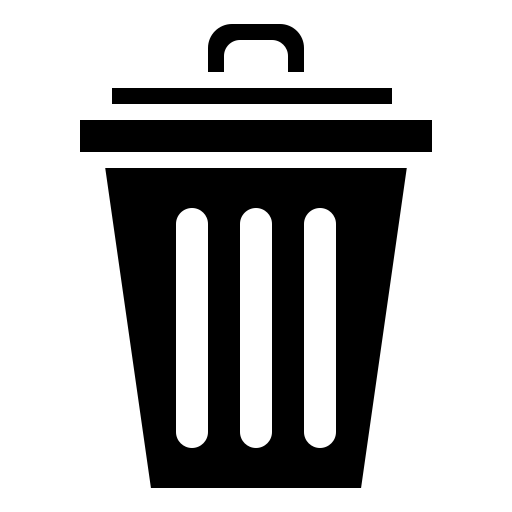
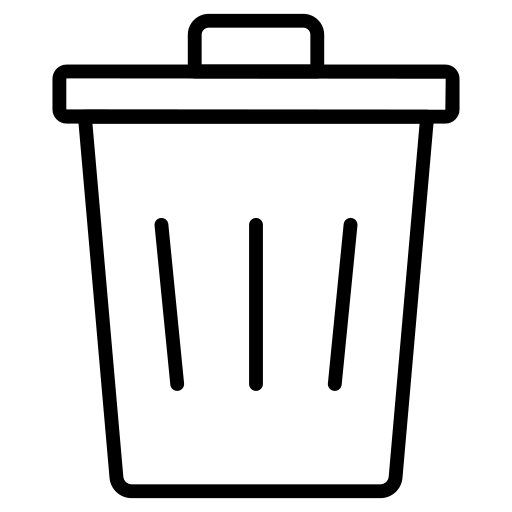
Change style in Cart

diff --git a/src/features/Cart/Cart.style.css b/src/features/Cart/Cart.style.css
@@ -1,20 +1,39 @@
 .cart-style {
     position: absolute;
-    top: 2rem;
-    right: 1.5rem;
-    max-width: 500px;
+    top: 3.5rem;
+    right: 2rem;
+    max-width: 400px;
     width: 100%;
     padding: 15px;
     border-radius: 8px;
-    background-color: #e1afd1;
+    background-color: #eacee1;
     border: 2px solid #C738BD;
     max-height: 500px;
     overflow-y: auto;
     display: flex;
     flex-direction: column;
-    gap: 10px;
-    color: whitesmoke;
+    color: #850f8dbb;
 
+}
+
+.cart-style hr {
+    display: flex;
+    flex-direction: row;
+    width: 100%;
+    background-color: #850f8d76;
+    border: none;
+    height: 2px;
+    padding: 1px;
+}
+
+.cart-style p {
+    padding: 0px;
+    margin: 0;
+}
+
+.cart-style h3 {
+    padding: 0px;
+    margin: 0px;
 }
 
 .item-list {
@@ -28,21 +47,23 @@
 .item-in-list {
     display: flex;
     flex-direction: row;
-    max-width: 500px;
+    max-width: 400px;
     width: 100%;
     justify-content: space-between;
     align-items: center;
-    background-color: #C738BD;
-    padding: 10px;
+    background-color: #d63ecc;
+    color: #e9dce5;
+    padding: 5px;
     border-radius: 5px;
     box-shadow: 2px 2px 4px 2px rgba(0, 0, 0, .2);
+    font-size: 14px;
 }
 
 .item-list-image {
-    max-width: 60px;
+    max-width: 50px;
     width: 100%;
     margin-left: 10px;
-    background-color: #e1afd1bb;
+    background-color: #e1afd195;
     border-radius: 5px;
 }
 
@@ -54,18 +75,75 @@
     justify-content: center;
     gap: 5px;
     font-size: 14px;
-    border: 2px solid whitesmoke;
-    border-radius: 30px;
     padding: 5px;
 }
 
 .bin-image {
-    max-width: 25px;
+    max-width: 20px;
     width: 100%;
+    filter: invert();
+    margin-right: 10px;
+}
+
+.promocode-style {
+    display: flex;
+    flex-direction: row;
+    align-items: center;
+    justify-content: center;
+    gap: 10px;
+    padding: 0px;
+    margin: 0px;
+}
+
+.promocode-style input {
+    border-radius: 30px;
+    border: none;
+    max-width: 300px;
+    width: 100%;
+    height: 30px;
+}
+
+.promocode-style input::placeholder {
+    padding-left: 10px;
 }
 
 .cart-style button {
-    max-width: 500px;
+    max-width: 400px;
     width: 100%;
     padding: 10px;
+    margin-bottom: 5px;
+}
+
+.subtotal-style,
+.discount-style,
+.total-style {
+    display: flex;
+    flex-direction: row;
+    justify-content: space-between;
+    align-items: center;
+    font-size: 16px;
+}
+
+.subtotal-style,
+.discount-style,
+.total-style h5,
+h4 {
+    padding: 0px;
+    margin: 0px;
+}
+
+.discount-style {
+    font-size: 14px;
+    color: #850f8d95;
+}
+
+.total-style {
+    padding-bottom: 20px;
+}
+
+.no-items {
+    display: flex;
+    align-items: center;
+    justify-content: center;
+    font-size: 20px;
 }

diff --git a/src/features/Cart/Cart.jsx b/src/features/Cart/Cart.jsx
@@ -18,7 +18,8 @@ const Cart = () => {
     return (
         <div className='cart-style'>
             {cart.length ? (<>
-                <p>Your items:</p>
+                <h3>Your items:</h3>
+                <hr />
                 <div className='item-list'>
                     {cart.map((item) => (
                         <div className='item-in-list' key={item.id}>
@@ -27,17 +28,37 @@ const Cart = () => {
                             <div className="quantity-style">
                                 <span onClick={() => decrementItem(item.id)}>-</span>
                                 <span>{item.quantity}</span>
-                                <span onClick={() => incrementItem(item.id)}>+</span>
+                                <span onClick={() => incrementItem(item)}>+</span>
                             </div>
                             <p>${handlePrice(item)}</p>
                             <img src={binIcon} className='bin-image' alt='bin-image' onClick={() => { deleteItem(item.id) }} />
                         </div>
                     ))}
                 </div>
-                <p className='total-price'>Total: ${total.toFixed(2)}</p>
+                <hr />
+                <div className='promocode-style'>
+                    <input type='text' placeholder='Promocode' />
+                    <Button buttonText='Apply' />
+                </div>
+                <hr />
+                <div className='subtotal-style'>
+                    <h4>Subtotal</h4>
+                    <p>${total.toFixed(2)}</p>
+                </div>
+                <div className='discount-style'>
+                    <h5>Discount</h5>
+                    <p>(20%) - $156.20 </p>
+                </div>
+                <hr />
+                <div className='total-style'>
+                    <h4>Total:</h4>
+                    <p>${total.toFixed(2)}</p>
+                </div>
                 <Button className='checkout-button' buttonText='Proceed to checkout' />
                 <Button className='clear-cart' handleClick={clearCart} buttonText='Clear cart' />
-            </>) : (<h2>No items in cart</h2>)}
+            </>) : (<>
+                <h2 className='no-items'>No items in cart</h2>
+            </>)}
         </div>
     )
 }
